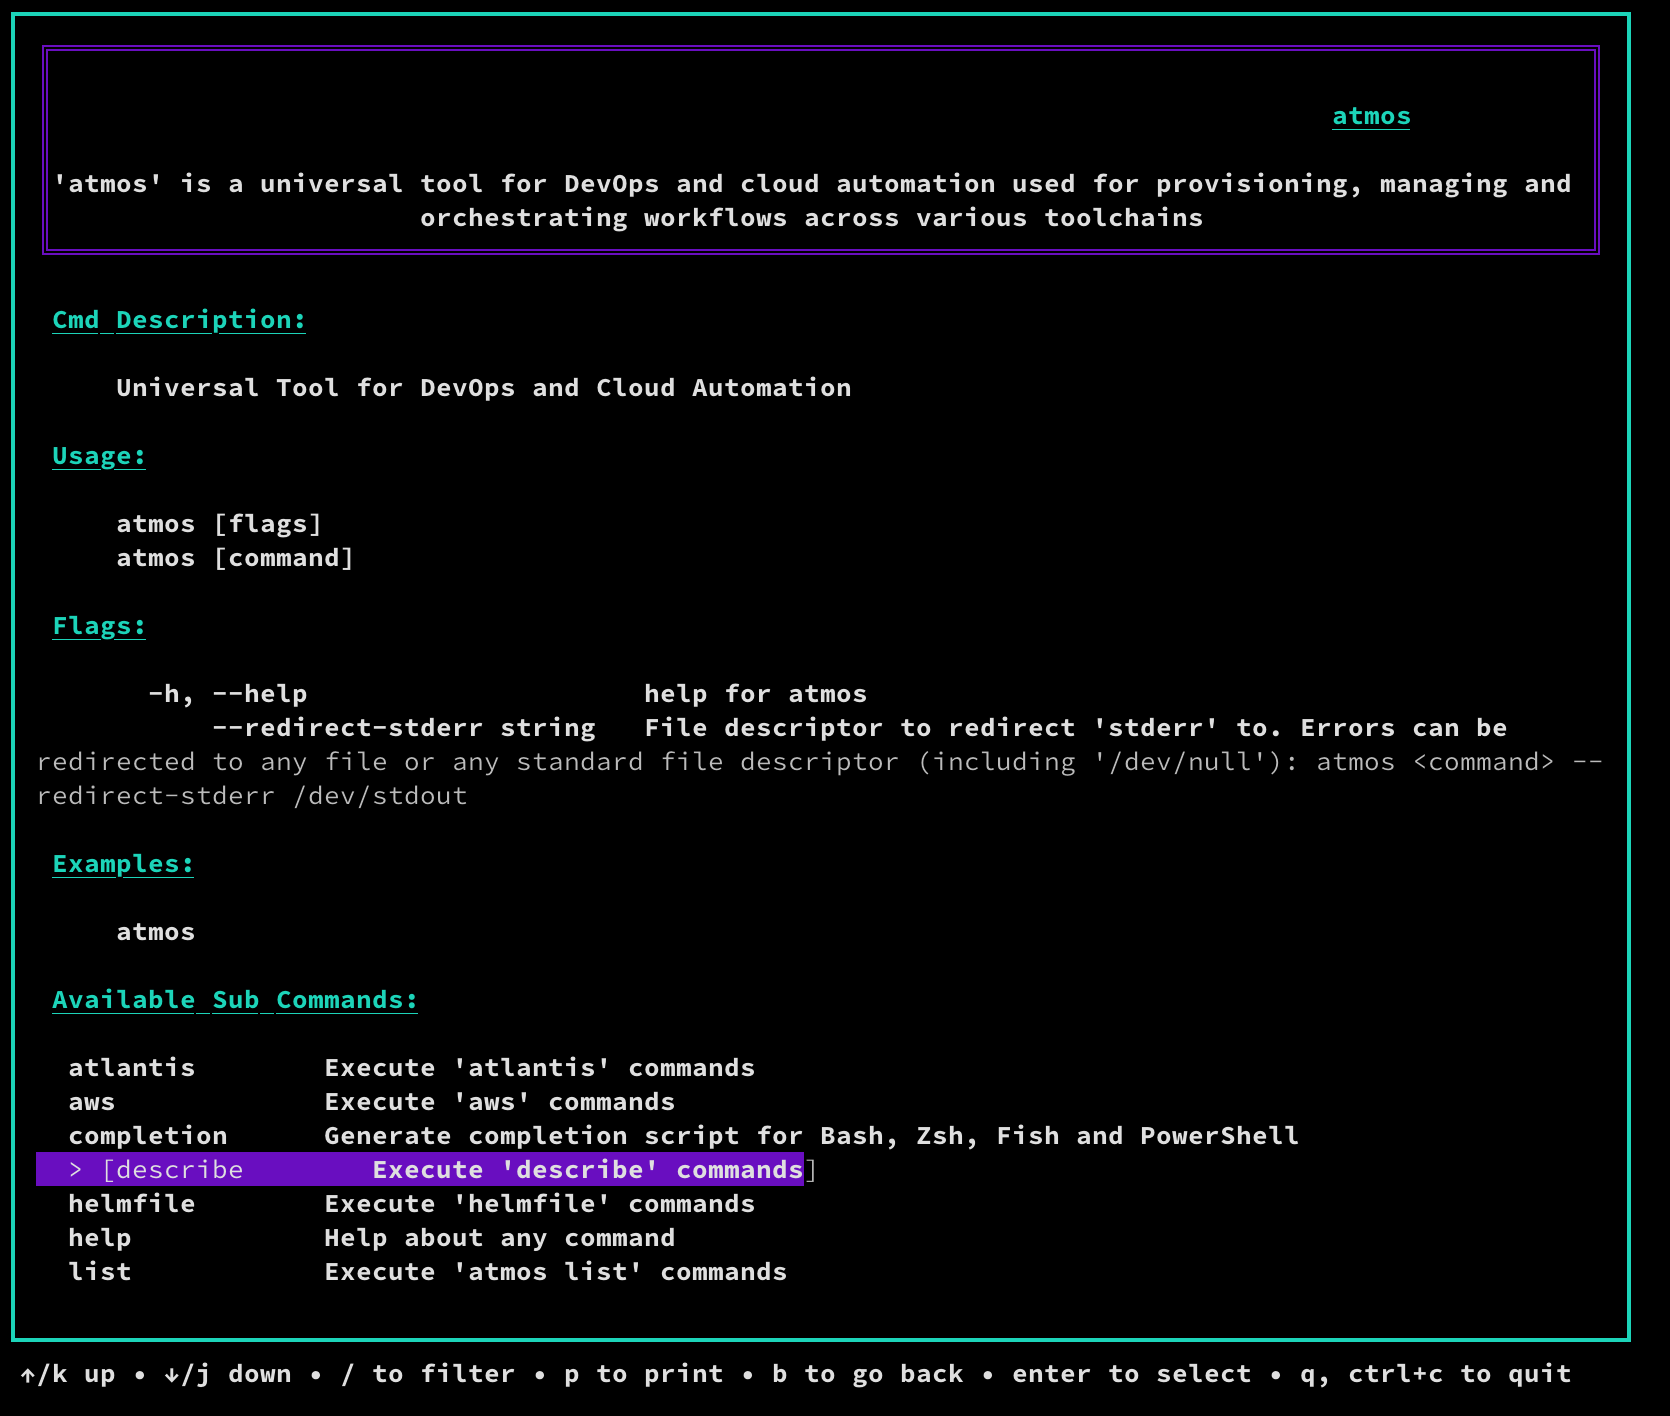
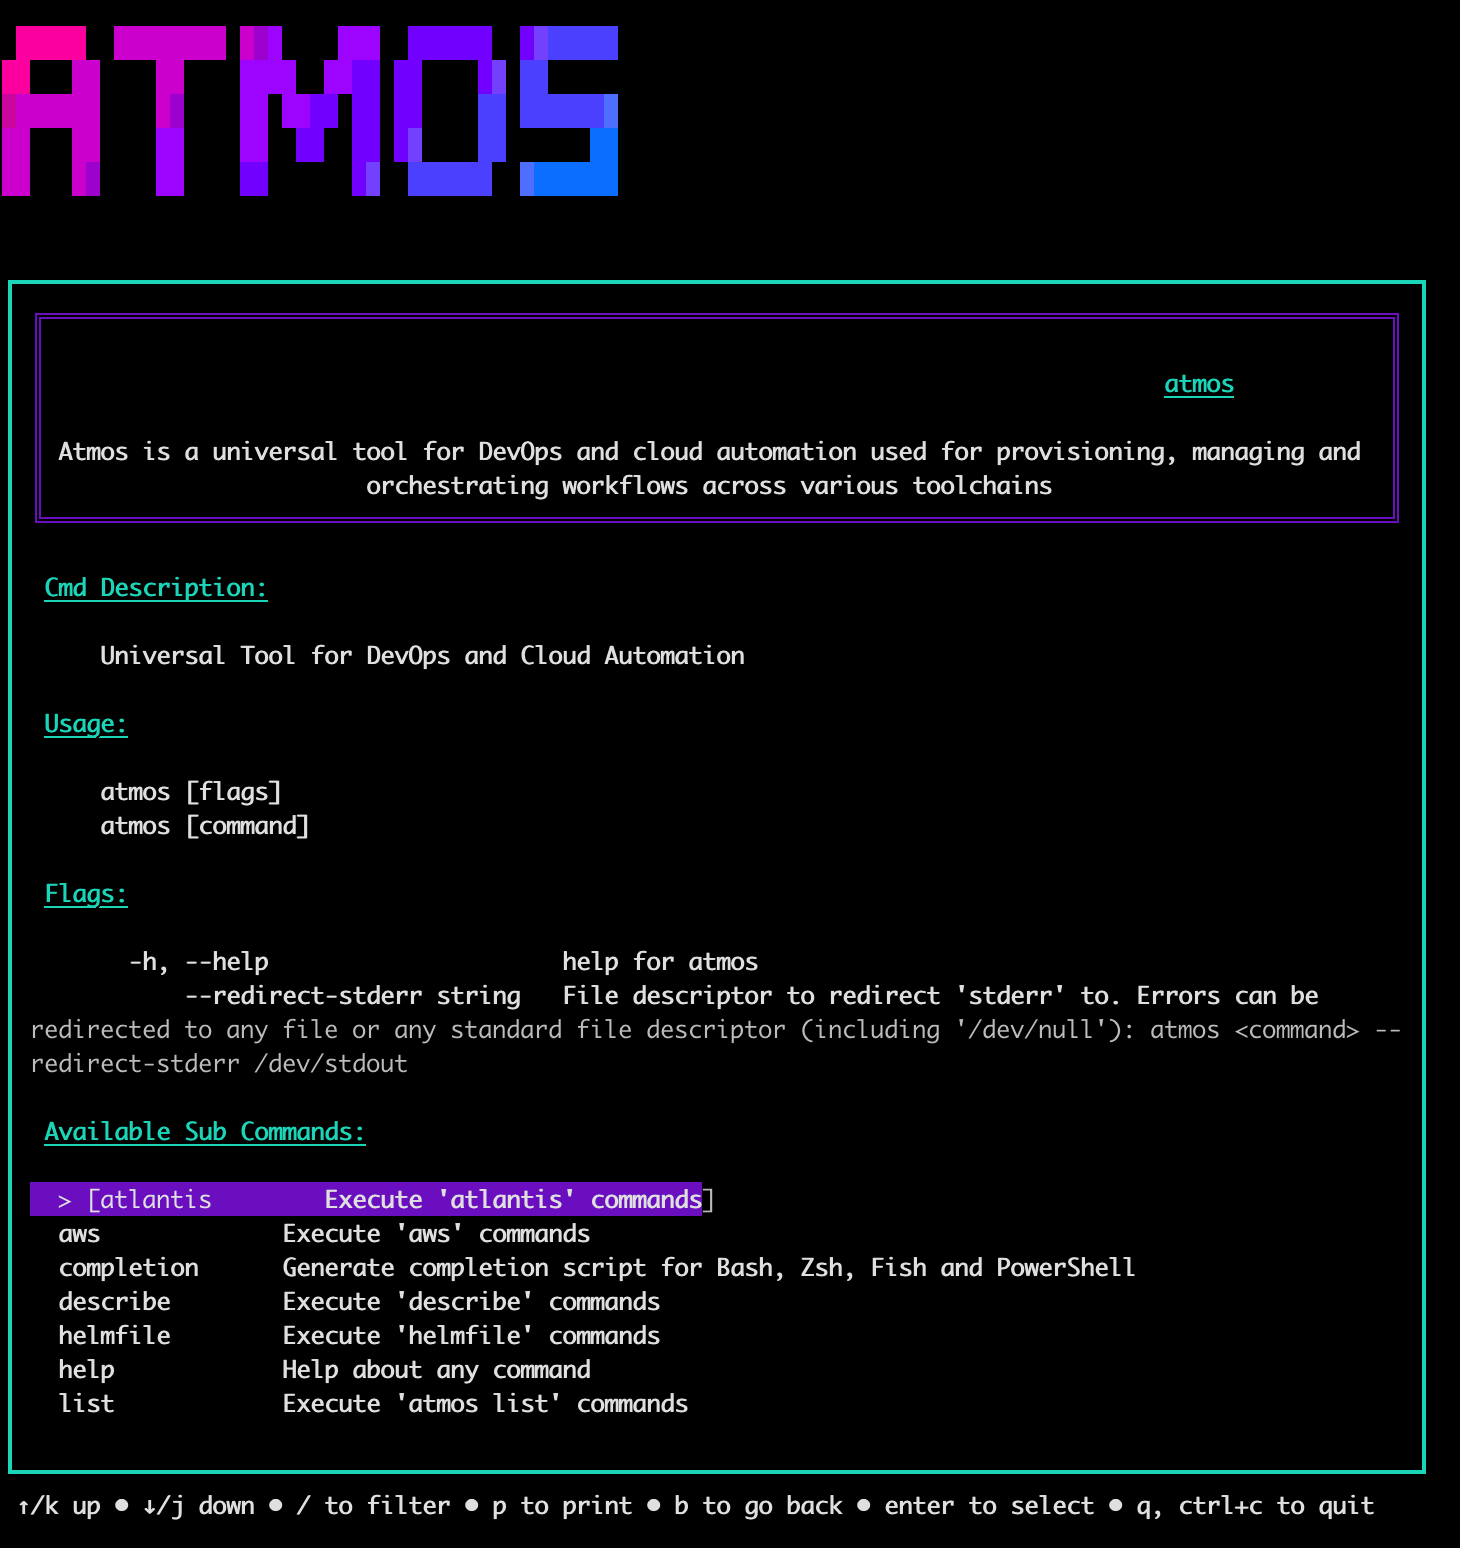
Updates

diff --git a/cmd/root.go b/cmd/root.go
@@ -2,7 +2,9 @@ package cmd
 
 import (
 	"errors"
+	"fmt"
 
+	tuiUtils "github.com/cloudposse/atmos/internal/tui/utils"
 	"github.com/elewis787/boa"
 	"github.com/spf13/cobra"
 
@@ -58,11 +60,18 @@ func initConfig() {
 	styles := boa.DefaultStyles()
 	b := boa.New(boa.WithStyles(styles))
 
-	// `atmos help` command
 	RootCmd.SetUsageFunc(b.UsageFunc)
-	RootCmd.SetHelpFunc(b.HelpFunc)
 
-	// `atmos --help` command
+	RootCmd.SetHelpFunc(func(command *cobra.Command, strings []string) {
+		// Print a styled Atmos logo to the terminal
+		fmt.Println()
+		err := tuiUtils.PrintAtmosLogo()
+		if err != nil {
+			u.LogErrorAndExit(err)
+		}
+
+		b.HelpFunc(command, strings)
+	})
 }
 
 // https://www.sobyte.net/post/2021-12/create-cli-app-with-cobra/
